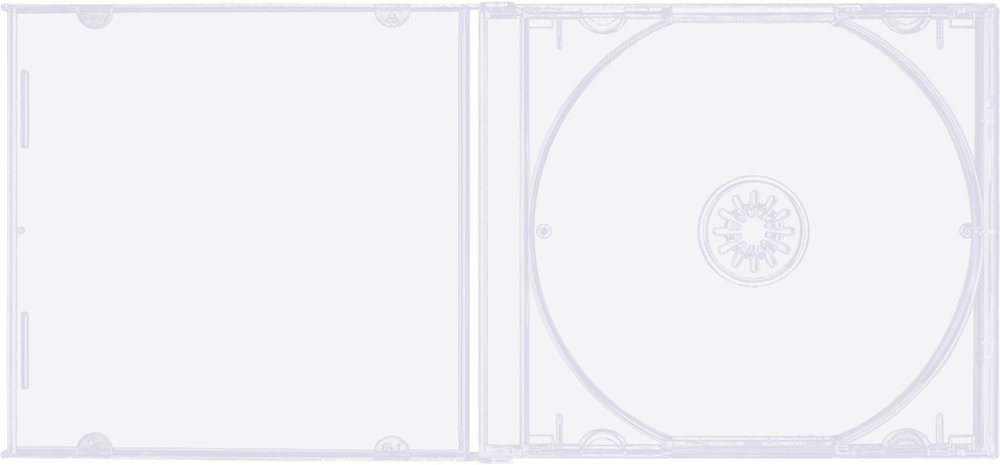
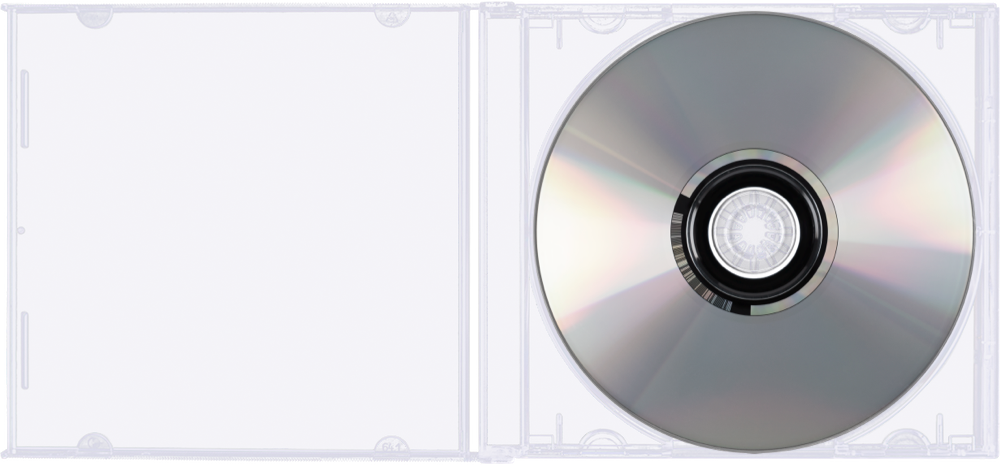
Added cd disk to case

Changed region(s): [[0.527, 0.0, 0.992, 0.9935]]

diff --git a/src/Components/Common/SingleMargedAlbum/SingleAlbum.scss b/src/Components/Common/SingleMargedAlbum/SingleAlbum.scss
@@ -218,6 +218,17 @@
       @media screen and (max-width: 600px) {
         // width: 350px;
       }
+      // ::after {
+      //   content: "";
+      //   position: absolute;
+      //   top: 0;
+      //   right: 0;
+      //   width: 355px;
+      //   height: 355px;
+      //   background-image: url("../../../assets/images/disk.png");
+      //   z-index: 3;
+      //   background-repeat: no-repeat;
+      // }
     }
   }
 }

diff --git a/src/Global.scss b/src/Global.scss
@@ -65,7 +65,7 @@ button {
   // margin-top: 80px !important;
   margin-top: 65px;
   position: relative;
-  max-width: 85rem;
+  max-width: 75rem;
   margin-right: auto;
   @media screen and (max-width: 1660px) {
     // padding-left: 30px;

diff --git a/src/Containers/MyProfile/MyProfile.scss b/src/Containers/MyProfile/MyProfile.scss
@@ -10,7 +10,7 @@
     // padding-right: 20px;
     padding-top: 50px;
     @media screen and (max-width: 650px) {
-      padding-top: 7px;
+      // padding-top: 7px;
     }
     .top {
       display: flex;

diff --git a/src/Components/Common/ProfileHeader/ProfileHeader.scss b/src/Components/Common/ProfileHeader/ProfileHeader.scss
@@ -7,6 +7,7 @@
     z-index: 8;
     @media screen and (max-width: 650px) {
       margin-top: 0px;
+      padding: 0 20px;
     }
     @media screen and (max-width: 1280px) {
       margin-top: -110px;

diff --git a/src/Containers/Settings/Settings.scss b/src/Containers/Settings/Settings.scss
@@ -187,7 +187,8 @@
     }
   }
   .profile-banner {
-    margin-top: 40px;
+    margin-top: 50px;
+    margin-bottom: 50px;
     .banner-buttons {
       margin-top: 20px;
       button {
